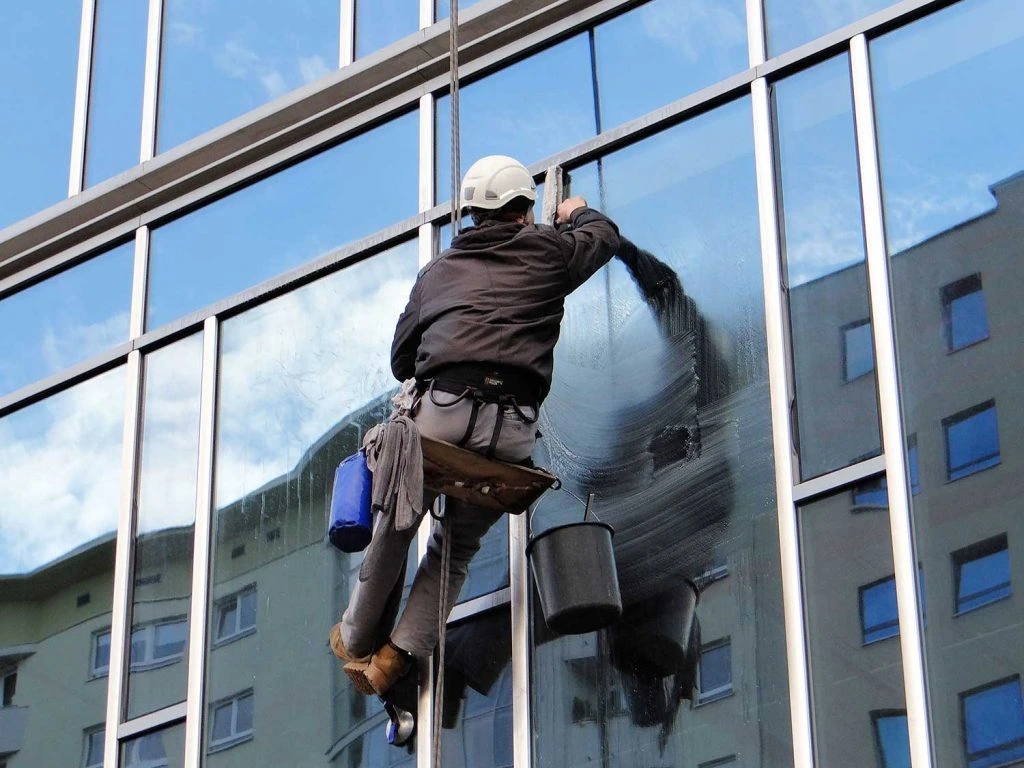
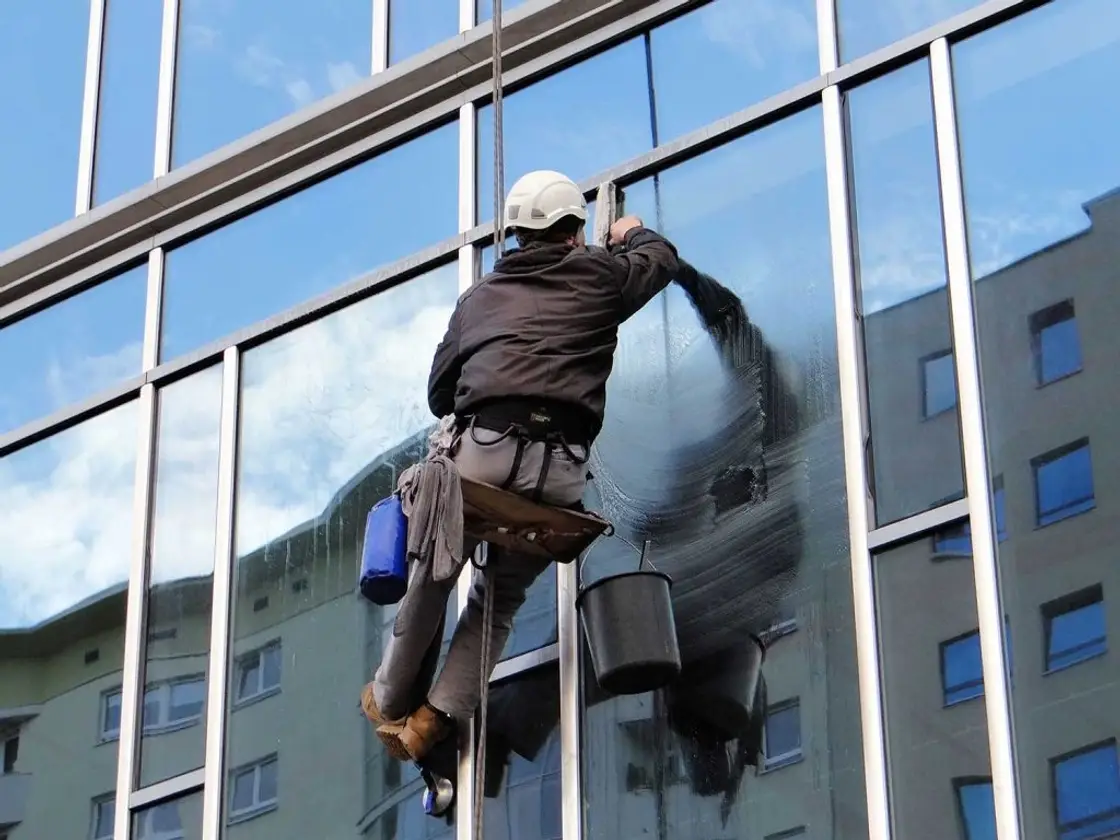
Optimisation PageSpeed: LCP, cache, compression images
- Ajout fetchpriority=high sur image LCP (logo)
- Suppression loading=lazy sur images above the fold
- Correction preload video (as=video au lieu de as=image)
- Creation .htaccess avec cache 1 an et compression GZIP
- Optimisation images: logo 60KB->18KB, silo webp 138KB, vitre 147KB->60KB, ligne-de-vie 64KB->46KB
- Ajout balises picture avec sources WebP

diff --git a/index.html b/index.html
@@ -255,14 +255,14 @@
             ]
         }
     </script>
-    <link rel="preload" href="quali-corde-sud.mp4" as="image">
+    <link rel="preload" href="quali-corde-sud.mp4" as="video" type="video/mp4">
 </head>
 
 <body>
     <header>
         <nav class="navicorde">
             <a href="https://cordiste-06.com" class="logo-link">
-                <img src="logo.jpg" alt="entreprise Cordiste 06 Alpes-Maritimes" class="logo" loading="lazy" decoding="async">
+                <img src="logo.jpg" alt="entreprise Cordiste 06 Alpes-Maritimes" class="logo" decoding="async">
             </a>
             <input type="checkbox" id="btn">
             <label for="btn" class="icon" aria-label="Menu">
@@ -299,7 +299,10 @@
         </div>
         <div class="form-container">
             <div class="image-container">
-                <img src="logo.jpg" alt="entreprise cordiste Saint-André">
+                <picture>
+                    <source srcset="logo.webp" type="image/webp">
+                    <img src="logo.jpg" alt="entreprise cordiste Saint-André" fetchpriority="high" width="278" height="118">
+                </picture>
             </div>
             <form id="contactForm" onsubmit="return submitToWebPrime(event)">
                 <!-- Honeypot anti-spam -->
@@ -375,8 +378,11 @@
             </section>
             <section>
                 <div class="nosservices2">
-                    <img src="nettoyage-silo-06.jpg.jpg" alt="nettoyage silo 06 Alpes-Maritimes"
-                        loading="lazy" decoding="async">
+                    <picture>
+                        <source srcset="nettoyage-silo-06.webp" type="image/webp">
+                        <img src="nettoyage-silo-06.jpg.jpg" alt="nettoyage silo 06 Alpes-Maritimes"
+                            loading="lazy" decoding="async">
+                    </picture>
                     <p><strong class="strong-color"><a href="nettoyage-de-silo-06.html" title="maintenance silo 06 Alpes-Maritimes">INDUSTRIE (silos &
                                 maintenance)</a></strong>
                     </p>
@@ -493,9 +499,12 @@
                         activité.
                     </p>
                 </div>
-                <img src="nettoyage-silo-06.jpg.jpg" alt="nettoyage silo farine 06 Alpes-Maritimes"
-                    class="pcimgindex2" title="nettoyage silo granulés 06 Alpes-Maritimes" loading="lazy"
-                    decoding="async">
+                <picture>
+                    <source srcset="nettoyage-silo-06.webp" type="image/webp">
+                    <img src="nettoyage-silo-06.jpg.jpg" alt="nettoyage silo farine 06 Alpes-Maritimes"
+                        class="pcimgindex2" title="nettoyage silo granulés 06 Alpes-Maritimes" loading="lazy"
+                        decoding="async">
+                </picture>
             </div>
         </section>
         <section>

diff --git a/style.css b/style.css
@@ -140,7 +140,7 @@ hr, .hr1{width: 20%;margin-left: auto;margin-right: auto;height: 6px;background:
     }
 }
 .nosservices{display:flex;justify-content:space-between;align-items:center;margin-top:5%}.nosservices1,.nosservices2,.nosservices3,.nosservices4{text-align:center;margin-top:5%;margin-bottom:15%}.nosservices1 img,.nosservices2 img,.nosservices3 img,.nosservices4 img{width:40%;height:auto}.nosservices1 p,.nosservices2 p,.nosservices3 p,.nosservices4 p{margin:5px 0 0;padding:8px;font-size:22px}.bouton3.slide-up{opacity:1;transform:translateY(0)}
-.nosservicespc{display:flex;align-items:center;margin-top:7%;margin-bottom:7%}.nosservicespc .pcservtext{text-align:center}.pcimgindex{width:40%;margin-left:5%;height:315px}.nosservicespc2{display:flex;align-items:center;margin-top:7%;margin-bottom:7%}.pcimgindex2{width:40%;height:315px;margin-right:5%}.nosservicespc2 .pcservaloooooo2{text-align:center}
+.nosservicespc{display:flex;align-items:center;margin-top:7%;margin-bottom:7%}.nosservicespc .pcservtext{text-align:center}.pcimgindex{width:40%;margin-left:5%;height:auto;object-fit:cover}.nosservicespc2{display:flex;align-items:center;margin-top:7%;margin-bottom:7%}.pcimgindex2{width:40%;height:auto;margin-right:5%;object-fit:cover}.nosservicespc2 .pcservaloooooo2{text-align:center}.nosservicespc picture,.nosservicespc2 picture{width:40%;flex-shrink:0}.nosservicespc picture{margin-left:5%}.nosservicespc2 picture{margin-right:5%}.nosservicespc picture img,.nosservicespc2 picture img{width:100%;height:auto;object-fit:cover}
 .realisation-pc{display:flex;justify-content:center;margin-top:5%;margin-bottom:7%;gap:5%}.realisation-pc img{width:20%;height:auto}
 .aloooooo1 img{display:flex;justify-content:center;width:10%;height:auto;margin:7% auto 5%}.aloooooo1 h3{font-size:22px;margin-bottom:3%}.aloooooo2 img{display:flex;justify-content:center;width:30%;height:auto;margin:7% auto 5%}.aloooooo3 img{display:flex;justify-content:center;width:40%;height:auto;margin-top:7%;margin-bottom:5%;margin-left:auto;margin-right:auto;}.aloooooo2 p,.aloooooo3 p{margin-left:3%;margin-right:3%;text-align:left}.aloooooo2 h3,.aloooooo3 h3{font-size:20px;text-align:left;font-weight:600;margin:10% 5% 3% 6%}
 #contact{margin-top:10%;padding:2%;background-color:#222}#contact h5{text-align:center;margin:5% 3% 3%;color:#fff;font-weight:600;font-size:20px}#contact p{color:#fff}.liens a{margin:0;color:#fff;font-size:16px}.liens-wp a,.liens-wp p{color:#fff;font-size:12px}
